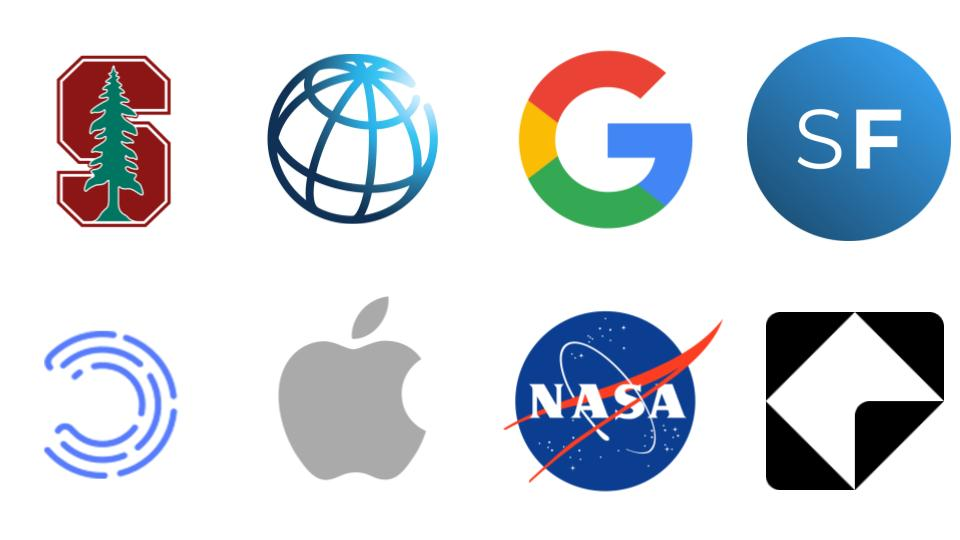
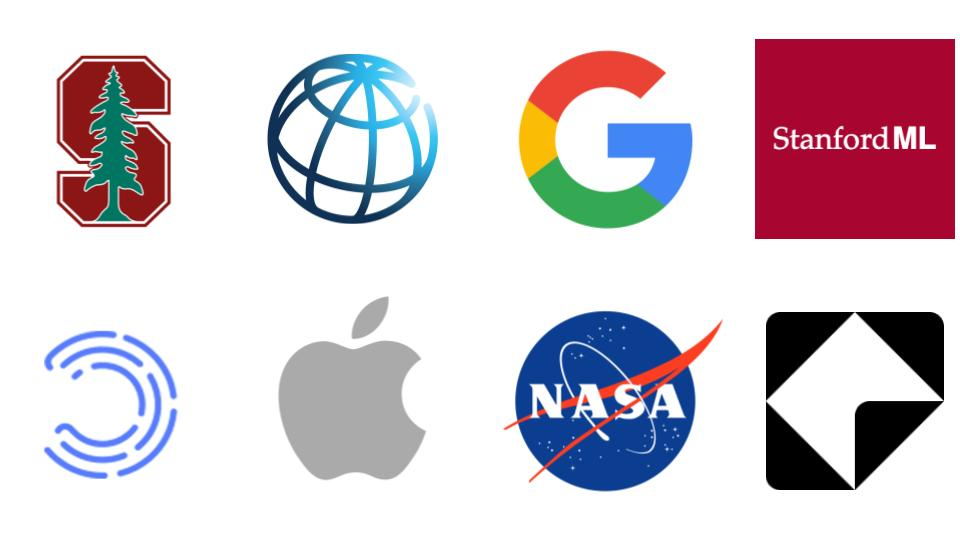
Adding new images.

Changed region(s): [[0.7812, 0.0593, 1.0, 0.4444]]

diff --git a/index.md b/index.md
@@ -7,7 +7,7 @@ I studied Mathematics (B.S) and Computer Science (M.S) at Stanford, and am curre
 <!-- 
 I'm a **Master's student @ [Stanford](https://profiles.stanford.edu/eva-zhang)**, currently pursuing interests in mathematics, computer science, and tech. policy. Formally, I am pursuing a Master's in Computer Science (AI track), and completed a Bachelor's in Mathematics. Check out my [Build](https://www.evazhang.com/build) page for more specific technical experiences.
  -->
-Here are some places and communities I've spent time at. 
+Here are some places and communities I've spent some time at. 
 
 <img src="images/newPresentation1.jpg" width="500"/>
 
